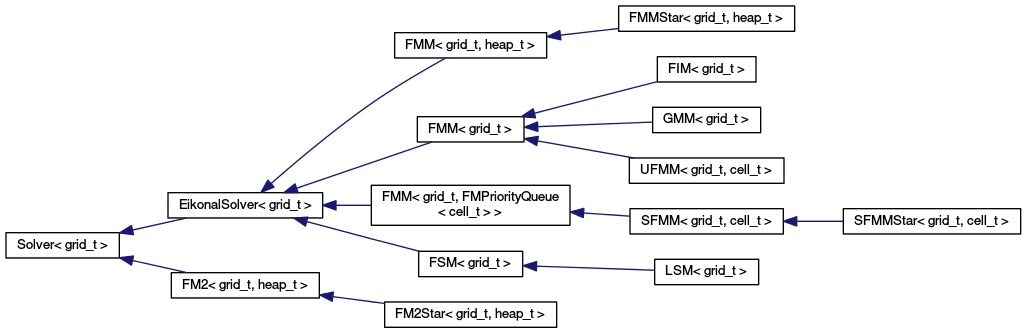
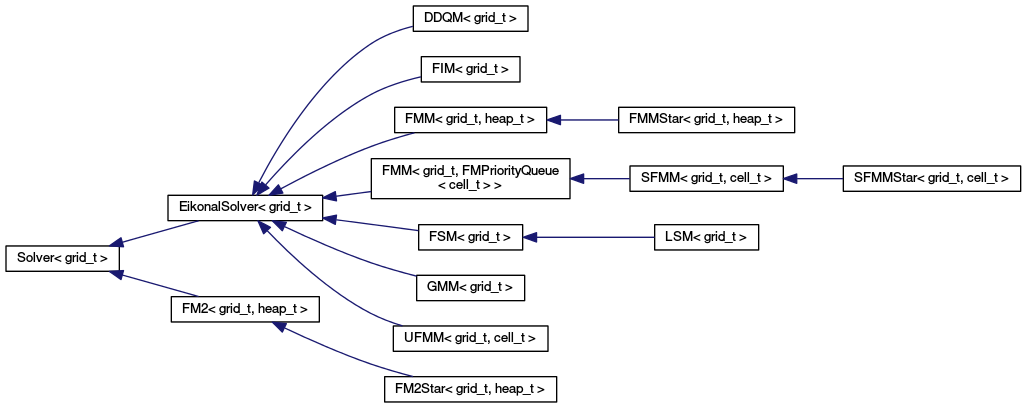
Hierarchy improves and DDQM finished

diff --git a/fmm/ddqm.hpp b/fmm/ddqm.hpp
@@ -78,6 +78,8 @@ template < class grid_t > class DDQM : public EikonalSolver<grid_t> {
                 grid_->getCell(i).setArrivalTime(0);
                 n_neighs = grid_->getNeighbors(i, neighbors_);
                 for (unsigned int j = 0; j < n_neighs; ++j) {
+                    if (grid_->getCell(neighbors_[j]).isOccupied())
+                        continue;
                     grid_->getCell(neighbors_[j]).setState(FMState::OPEN);
                     queues_[0].push(neighbors_[j]);
                 }
@@ -90,10 +92,12 @@ template < class grid_t > class DDQM : public EikonalSolver<grid_t> {
             // counts[0] tracks insertions in lower queue. counts[1] is total insertions.
             std::array<size_t, 2> counts = {0,0};
 
-            while (!queues_[0].empty() || !queues_[1].empty()) {
+            while (!queues_[0].empty() || !queues_[1].empty() && !stopPropagation) {
                 while (!queues_[lq].empty() && !stopPropagation) {
                     unsigned int idx = queues_[lq].front();
                     queues_[lq].pop();
+                    if (grid_->getCell(idx).isOccupied())
+                        continue;
                     double newT = solveEikonal(idx);
                     if (utils::isTimeBetterThan(newT, grid_->getCell(idx).getArrivalTime())) {
                         grid_->getCell(idx).setArrivalTime(newT);
@@ -125,6 +129,7 @@ template < class grid_t > class DDQM : public EikonalSolver<grid_t> {
             }
         }
 
+        /** \brief Dynamically increases the threshold according to the reference paper. */
         void increaseThreshold
         (std::array<size_t, 2> & counts) {
             double minPercent = 0.65;
@@ -145,6 +150,14 @@ template < class grid_t > class DDQM : public EikonalSolver<grid_t> {
         virtual void reset
         () {
             EikonalSolver<grid_t>::reset();
+
+            while(!queues_[0].empty())
+                queues_[0].pop();
+            while(!queues_[1].empty())
+                queues_[1].pop();
+            double avgSpeed = 1.0/(grid_->getAvgSpeed()*grid_->getLeafSize());
+            thStep_ = 1.5 / avgSpeed;
+            threshold_ = thStep_;
         }
 
         virtual void printRunInfo
@@ -163,9 +176,7 @@ template < class grid_t > class DDQM : public EikonalSolver<grid_t> {
         using EikonalSolver<grid_t>::name_;
         using EikonalSolver<grid_t>::time_;
         using EikonalSolver<grid_t>::solveEikonal;
-
-        /** \brief Auxiliar array which stores the neighbor of each iteration of the computeFM() function. */
-        std::array <unsigned int, 2*grid_t::getNDims()> neighbors_;
+        using EikonalSolver<grid_t>::neighbors_;
 
         /** \brief Queues which contain the lower and higher cells to be expanded in further iterations. */
         std::array<std::queue<unsigned int>, 2> queues_;

diff --git a/fmm/ufmm.hpp b/fmm/ufmm.hpp
@@ -28,18 +28,18 @@
 #ifndef UFMM_HPP_
 #define UFMM_HPP_
 
-#include "fmm.hpp"
+#include "eikonalsolver.hpp"
 #include "fmdata/fmuntidyqueue.hpp"
 
-template <class grid_t, class cell_t = FMCell> class UFMM : public FMM <grid_t> {
+template <class grid_t, class cell_t = FMCell> class UFMM : public EikonalSolver<grid_t> {
 
     public:
         UFMM
-        (unsigned s = 1000, double inc = 2) :  FMM<grid_t>("UFMM"), heap_s_(s), heap_inc_(inc) {
+        (unsigned s = 1000, double inc = 2) : EikonalSolver<grid_t>("UFMM"), heap_s_(s), heap_inc_(inc) {
             narrow_band_ = new FMUntidyQueue<cell_t> (heap_s_, heap_inc_);
         }
         UFMM
-        (const char * name, unsigned s = 1000, double inc = 2) : FMM<grid_t>(name), heap_s_(s), heap_inc_(inc) {
+        (const char * name, unsigned s = 1000, double inc = 2) : EikonalSolver<grid_t>(name), heap_s_(s), heap_inc_(inc) {
             narrow_band_ = new FMUntidyQueue<cell_t> (heap_s_, heap_inc_);
         }
 
@@ -68,7 +68,7 @@ template <class grid_t, class cell_t = FMCell> class UFMM : public FMM <grid_t> 
                 grid_->getCell(idxMin).setState(FMState::FROZEN);
                 for (unsigned int s = 0; s < n_neighs; ++s) { // For each neighbor
                     j = neighbors_[s];
-                    if ( (grid_->getCell(j).getState() == FMState::FROZEN) || grid_->getCell(j).isOccupied()|| (grid_->getCell(j).getVelocity() == 0) ) // If Frozen,obstacle or velocity = 0
+                    if ( (grid_->getCell(j).getState() == FMState::FROZEN) || grid_->getCell(j).isOccupied())
                         continue;
                     else {
                         double new_arrival_time = solveEikonal(j);
@@ -97,18 +97,18 @@ template <class grid_t, class cell_t = FMCell> class UFMM : public FMM <grid_t> 
 
         virtual void reset
         () {
-            FMM<grid_t>::reset();
+            EikonalSolver<grid_t>::reset();
             narrow_band_->clear();
         }
 
     protected:
-        using FMM<grid_t>::grid_;
-        using FMM<grid_t>::neighbors_;
-        using FMM<grid_t>::solveEikonal;
-        using FMM<grid_t>::init_points_;
-        using FMM<grid_t>::goal_idx_;
-        using FMM<grid_t>::setup;
-        using FMM<grid_t>::setup_;
+        using EikonalSolver<grid_t>::grid_;
+        using EikonalSolver<grid_t>::solveEikonal;
+        using EikonalSolver<grid_t>::init_points_;
+        using EikonalSolver<grid_t>::goal_idx_;
+        using EikonalSolver<grid_t>::setup;
+        using EikonalSolver<grid_t>::setup_;
+        using EikonalSolver<grid_t>::neighbors_;
 
     private:
         /** \brief Number of buckets in the heap. */

diff --git a/fmm/gmm.hpp b/fmm/gmm.hpp
@@ -28,13 +28,13 @@
 #ifndef GMM_HPP_
 #define GMM_HPP_
 
-#include "fmm.hpp"
+#include "eikonalsolver.hpp"
 
-template < class grid_t > class GMM : public FMM <grid_t> {
+template < class grid_t > class GMM : public EikonalSolver <grid_t> {
 
     public:
-        GMM(double dt = 1) : FMM<grid_t>("GMM"), deltau_(dt) {}
-        GMM(const char * name, double dt = 1) : FMM<grid_t>(name), deltau_(dt) {}
+        GMM(double dt = 1) : EikonalSolver<grid_t>("GMM"), deltau_(dt) {}
+        GMM(const char * name, double dt = 1) : EikonalSolver<grid_t>(name), deltau_(dt) {}
 
         virtual ~GMM() { clear(); }
 
@@ -56,7 +56,7 @@ template < class grid_t > class GMM : public FMM <grid_t> {
                 n_neighs = grid_->getNeighbors(i, neighbors_);
                 for (unsigned int s = 0; s < n_neighs; ++s){  // For each neighbor
                     j = neighbors_[s];
-                    if ((grid_->getCell(j).getState() == FMState::FROZEN) || grid_->getCell(j).isOccupied() || (grid_->getCell(j).getVelocity() == 0)) // If Frozen,obstacle or velocity = 0
+                    if ((grid_->getCell(j).getState() == FMState::FROZEN) || grid_->getCell(j).isOccupied())
                         continue;
                     else {
                         double new_arrival_time = solveEikonal(j);
@@ -139,19 +139,19 @@ template < class grid_t > class GMM : public FMM <grid_t> {
 
         virtual void reset
         () {
-            FMM<grid_t>::reset();
+            EikonalSolver<grid_t>::reset();
             gamma_.clear();
             tm_ = 0;
         }
 
     protected:
-        using FMM<grid_t>::grid_;
-        using FMM<grid_t>::neighbors_;
-        using FMM<grid_t>::solveEikonal;
-        using FMM<grid_t>::init_points_;
-        using FMM<grid_t>::goal_idx_;
-        using FMM<grid_t>::setup;
-        using FMM<grid_t>::setup_;
+        using EikonalSolver<grid_t>::grid_;
+        using EikonalSolver<grid_t>::solveEikonal;
+        using EikonalSolver<grid_t>::init_points_;
+        using EikonalSolver<grid_t>::goal_idx_;
+        using EikonalSolver<grid_t>::setup;
+        using EikonalSolver<grid_t>::setup_;
+        using EikonalSolver<grid_t>::neighbors_;
 
     private:
         /** \brief Global bound that determines the group of cells of gamma that will be updated in each step. */

diff --git a/fmm/fim.hpp b/fmm/fim.hpp
@@ -28,13 +28,13 @@
 #ifndef FIM_HPP_
 #define FIM_HPP_
 
-#include "fmm.hpp"
+#include "eikonalsolver.hpp"
 
-template < class grid_t > class FIM : public FMM <grid_t> {
+template < class grid_t > class FIM : public EikonalSolver<grid_t> {
 
     public:
-        FIM(double error = 0) : FMM<grid_t>("FIM"), E_(error) {}
-        FIM(const char * name, double error = 0) : FMM<grid_t>(name), E_(error) {}
+        FIM(double error = 0) : EikonalSolver<grid_t>("FIM"), E_(error) {}
+        FIM(const char * name, double error = 0) : EikonalSolver<grid_t>(name), E_(error) {}
 
         virtual ~FIM() { clear(); }
 
@@ -99,18 +99,18 @@ template < class grid_t > class FIM : public FMM <grid_t> {
 
         virtual void reset
         () {
-            FMM<grid_t>::reset();
+            EikonalSolver<grid_t>::reset();
             active_list_.clear();
         }
 
     protected:
-        using FMM<grid_t>::grid_;
-        using FMM<grid_t>::neighbors_;
-        using FMM<grid_t>::solveEikonal;
-        using FMM<grid_t>::init_points_;
-        using FMM<grid_t>::goal_idx_;
-        using FMM<grid_t>::setup;
-        using FMM<grid_t>::setup_;
+        using EikonalSolver<grid_t>::grid_;
+        using EikonalSolver<grid_t>::solveEikonal;
+        using EikonalSolver<grid_t>::init_points_;
+        using EikonalSolver<grid_t>::goal_idx_;
+        using EikonalSolver<grid_t>::setup;
+        using EikonalSolver<grid_t>::setup_;
+        using EikonalSolver<grid_t>::neighbors_;
 
     private:
         /** \brief List wich stores the narrow band of each iteration. */

diff --git a/benchmark/benchmarkcfg.hpp b/benchmark/benchmarkcfg.hpp
@@ -36,6 +36,7 @@
 #include "../fmm/ufmm.hpp"
 #include "../fmm/fsm.hpp"
 #include "../fmm/lsm.hpp"
+#include "../fmm/ddqm.hpp"
 
 /// \todo the getter functions do not check if the types are admissible.
 /// \todo does not have support for multiple starts or goals.
@@ -60,7 +61,7 @@ class BenchmarkCFG {
         {
             static const std::vector<std::string> knownSolvers = {
                 "fmm", "fmmstar", "fmmfib", "fmmfibstar", "sfmm", "sfmmstar",
-                "gmm", "fim", "ufmm", "fsm", "lsm" // Add solver here.
+                "gmm", "fim", "ufmm", "fsm", "lsm", "ddqm" // Add solver here.
             };
 
             std::fstream cfg(filename);
@@ -164,6 +165,8 @@ class BenchmarkCFG {
                         solver = new FSM<grid_t>();
                     else if (name == "lsm")
                         solver = new LSM<grid_t>();
+                    else if (name == "ddqm")
+                        solver = new DDQM<grid_t>();
                     // Add solver here.
 
                     else
@@ -247,6 +250,10 @@ class BenchmarkCFG {
                             solver = new LSM<grid_t>(p[0].c_str());
                         else if (p.size() == 2)
                             solver = new LSM<grid_t>(p[0].c_str(), boost::lexical_cast<unsigned>(p[1]));
+                    }
+                    // DDQM
+                    else if (name == "ddqm") {
+                        solver = new LSM<grid_t>(p[0].c_str());
                     }
                     // Add solver here.
 

diff --git a/examples/test_fmm.cpp b/examples/test_fmm.cpp
@@ -17,6 +17,7 @@
 #include "../fmm/ufmm.hpp"
 #include "../fmm/fsm.hpp"
 #include "../fmm/lsm.hpp"
+#include "../fmm/ddqm.hpp"
 
 #include "../io/gridplotter.hpp"
 
@@ -51,6 +52,7 @@ int main()
     solvers.push_back(new UFMM<FMGrid2D>);
     solvers.push_back(new FSM<FMGrid2D>);
     solvers.push_back(new LSM<FMGrid2D>);
+    solvers.push_back(new DDQM<FMGrid2D>);
     // GMM, FIM and UFMM have some parameters, can be set by overloaded constructors.
 
     // Executing every solver individually over the same grid.
@@ -69,7 +71,7 @@ int main()
     // Showing different type conversions methodologies. Solver names could be compared
     // but it is less reliable since they are user-defined.
     // Direct cast
-    /*FMM<FMGrid2D>* FMMtest = dynamic_cast< FMM<FMGrid2D>* >(solvers[6]);
+    FMM<FMGrid2D>* FMMtest = dynamic_cast< FMM<FMGrid2D>* >(solvers[6]);
     if (FMMtest)
         std::cout << "Solver type SFMM" <<'\n';
     else
@@ -85,7 +87,7 @@ int main()
     // solvers[6]->setHeuristics(true) would not compile since there is not a Solver::setHeuristics
     solvers[6]->as< FMM<FMGrid2D, FMPriorityQueue<FMCell>> >()->setHeuristics(HeurStrategy::DISTANCE);
     std::cout << solvers[6]->as< FMM<FMGrid2D, FMPriorityQueue<FMCell>> >()->getHeuristics() << '\n';
-*/
+
     // Preventing memory leaks.
     for (auto & s : solvers)
         delete s;

diff --git a/fmm/fmm.hpp b/fmm/fmm.hpp
@@ -232,9 +232,7 @@ template < class grid_t, class heap_t = FMDaryHeap<FMCell> >  class FMM : public
         using EikonalSolver<grid_t>::name_;
         using EikonalSolver<grid_t>::time_;
         using EikonalSolver<grid_t>::solveEikonal;
-
-        /** \brief Auxiliar array which stores the neighbor of each iteration of the computeFM() function. */
-        std::array <unsigned int, 2*grid_t::getNDims()> neighbors_;
+        using EikonalSolver<grid_t>::neighbors_;
 
     private:
         /** \brief Instance of the heap used. */

diff --git a/fmm/eikonalsolver.hpp b/fmm/eikonalsolver.hpp
@@ -104,6 +104,9 @@ class EikonalSolver : public Solver<grid_t>{
         /** \brief Auxiliar vector with values T0,T1...Tn-1 variables in the Discretized Eikonal Equation. */
         std::vector<double>          Tvalues_;
 
+        /** \brief Auxiliar array which stores the neighbor of each iteration of the computeFM() function. */
+        std::array <unsigned int, 2*grid_t::getNDims()> neighbors_;
+
         using Solver<grid_t>::grid_;
 };
 

diff --git a/examples/test_fmm_benchmark.cpp b/examples/test_fmm_benchmark.cpp
@@ -17,6 +17,7 @@
 #include "../fmm/ufmm.hpp"
 #include "../fmm/fsm.hpp"
 #include "../fmm/lsm.hpp"
+#include "../fmm/ddqm.hpp"
 
 #include "../benchmark/benchmark.hpp"
 
@@ -71,6 +72,7 @@ int main()
     benchmark.addSolver(new UFMM<FMGrid2D>);
     benchmark.addSolver(new FSM<FMGrid2D>);
     benchmark.addSolver(new LSM<FMGrid2D>);
+    benchmark.addSolver(new DDQM<FMGrid2D>);
 
     // Run benchmark
     benchmark.run();

diff --git a/fmm/fsm.hpp b/fmm/fsm.hpp
@@ -122,7 +122,8 @@ template < class grid_t > class FSM : public EikonalSolver<grid_t> {
             }
             else {
                 for(int i = inits_[0]; i != ends_[0]; i += incs_[0])
-                    solveForIdx(it+i);
+                    if (!grid_->getCell(it+i).isOccupied())
+                        solveForIdx(it+i);
             }
         }
 
